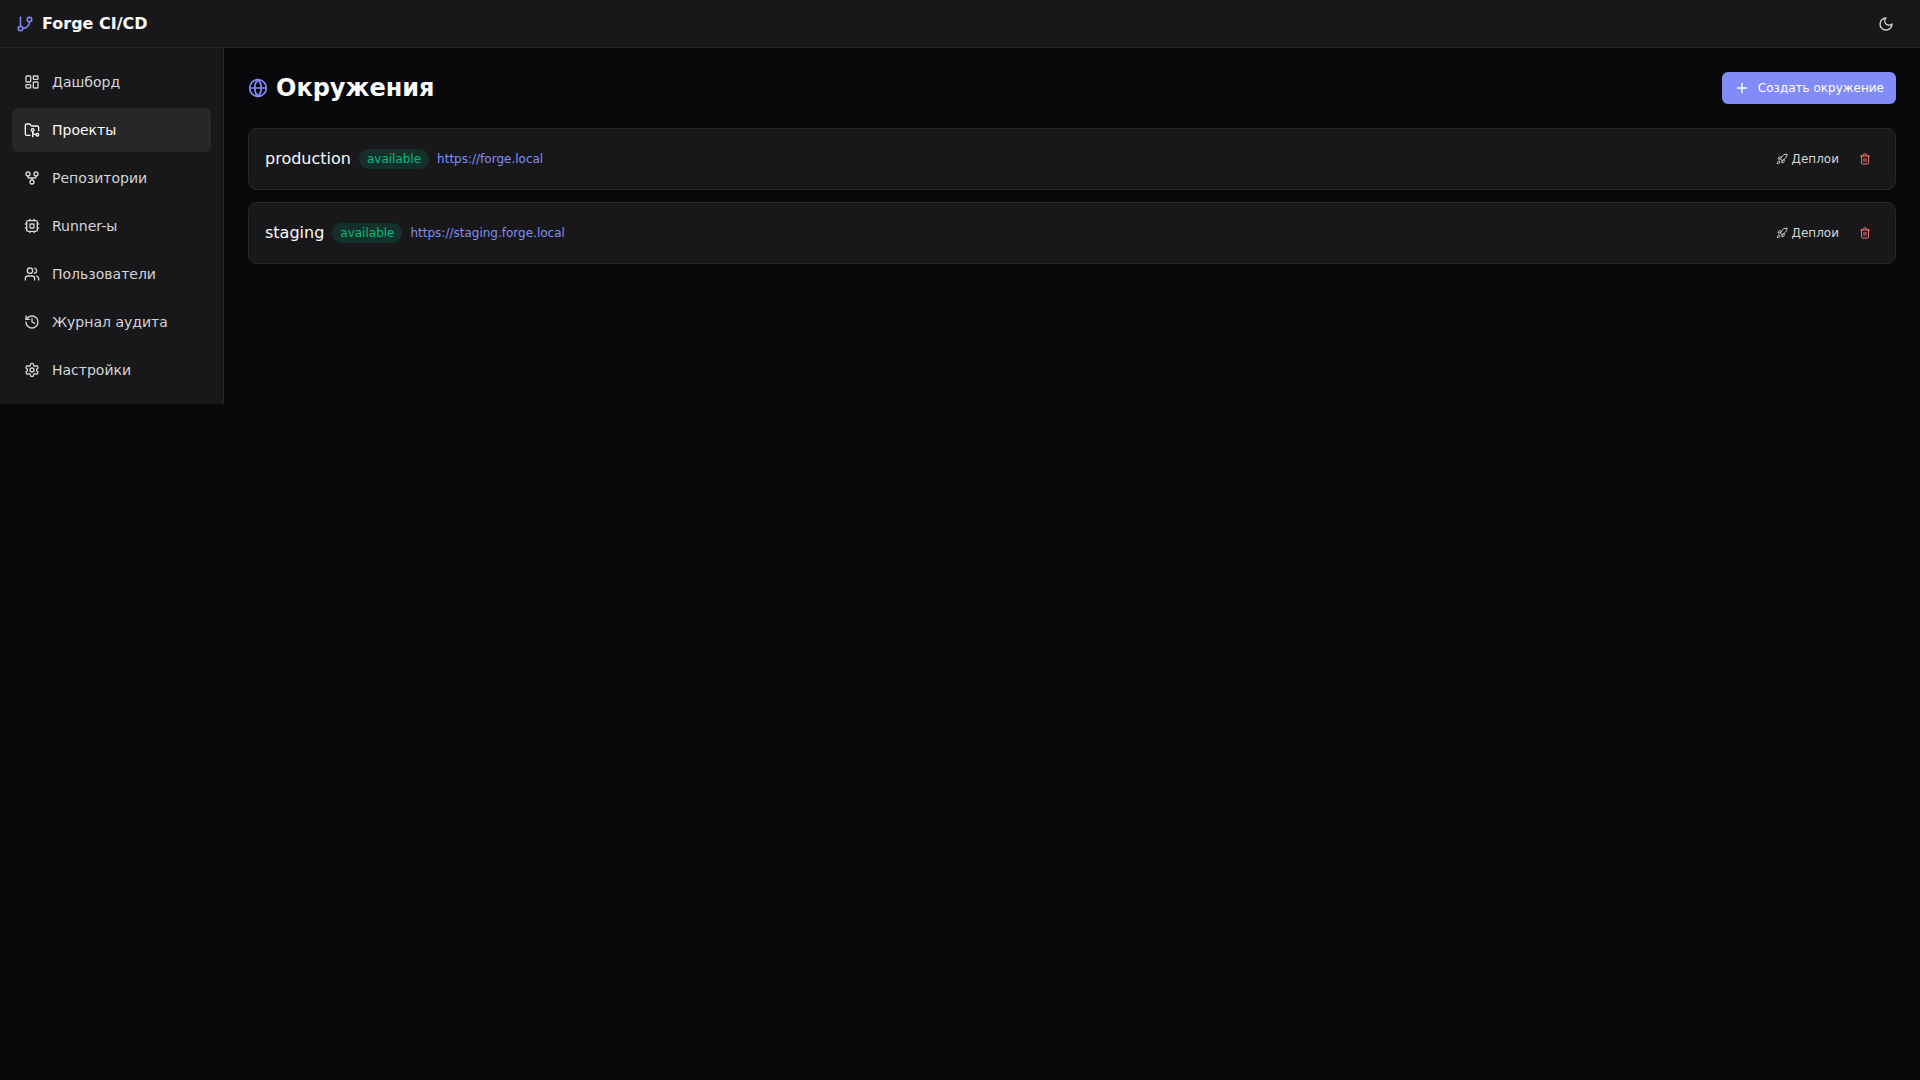
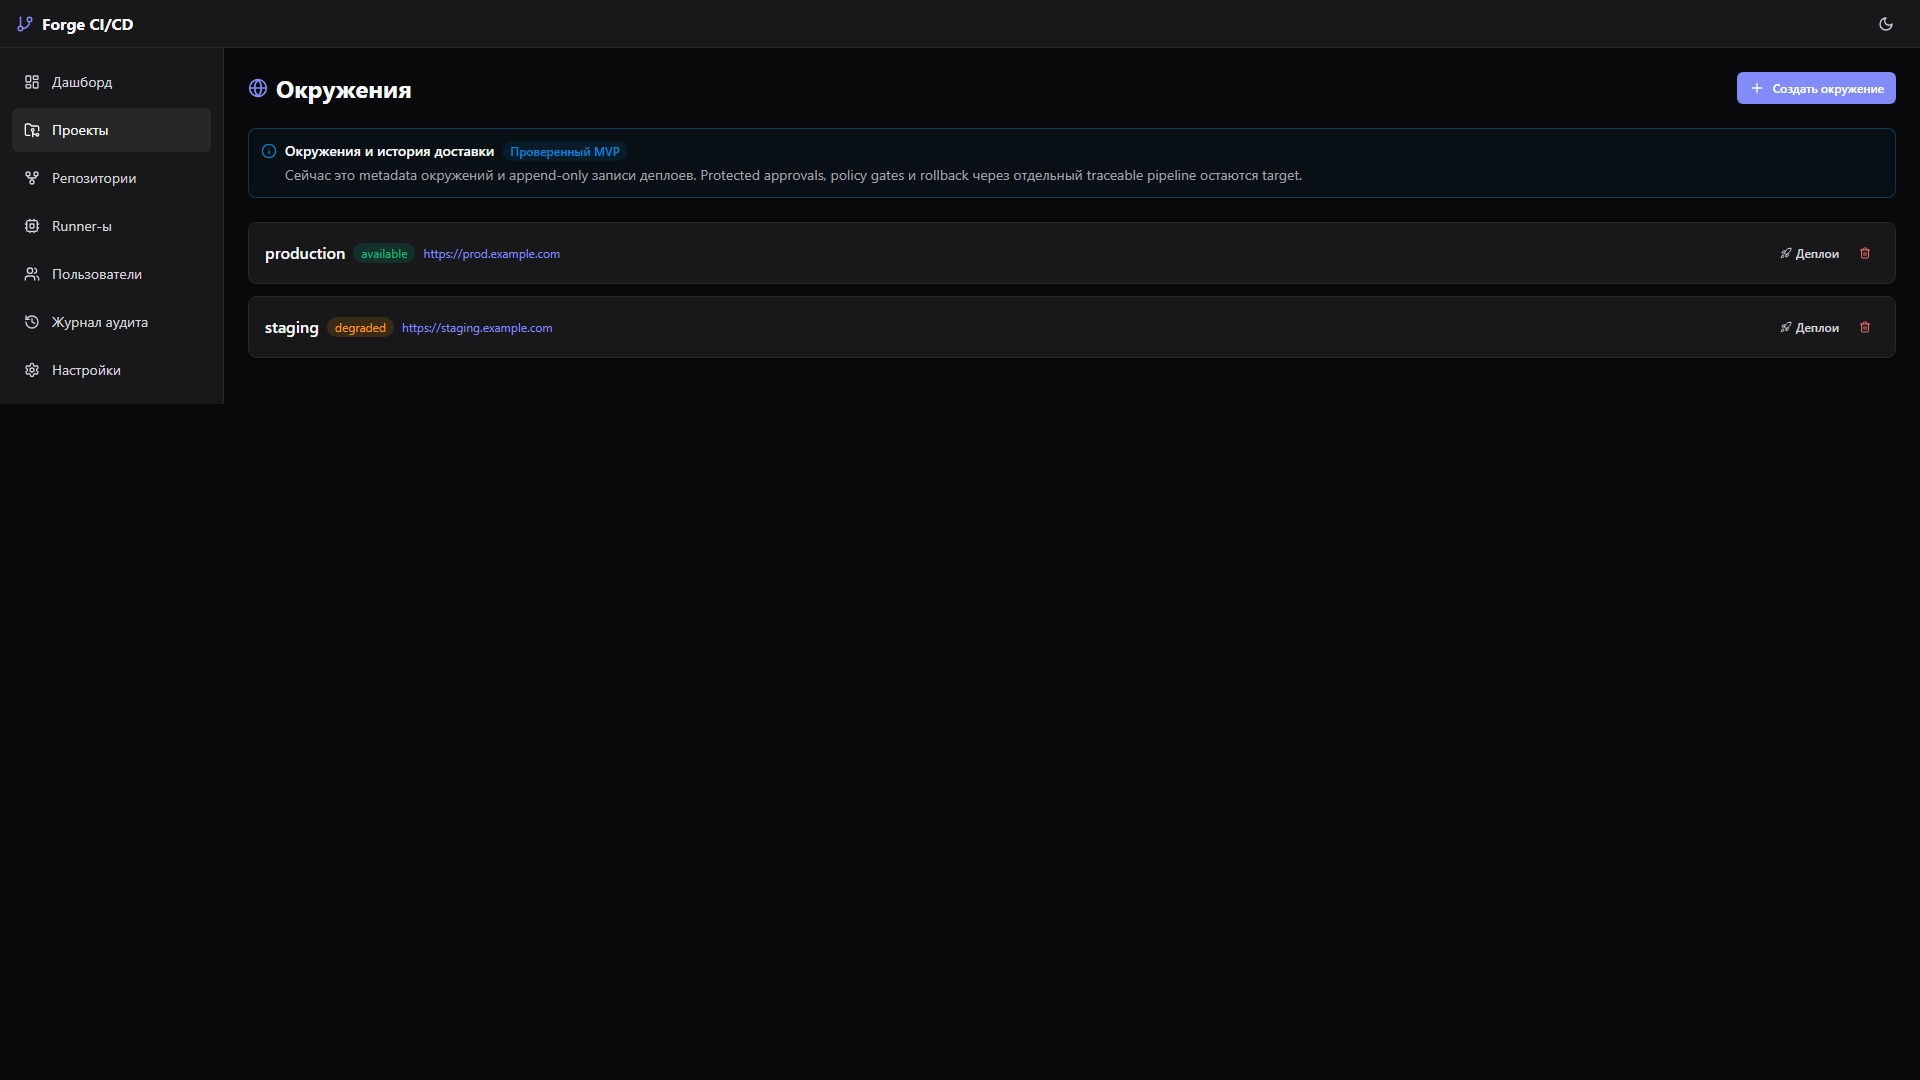
fix(frontend): clarify environment delivery scope

diff --git a/frontend/src/pages/environments/index.tsx b/frontend/src/pages/environments/index.tsx
@@ -6,6 +6,7 @@ import { Card } from '@/shared/ui/card'
 import { Button } from '@/shared/ui/button'
 import { Input } from '@/shared/ui/input'
 import { Label } from '@/shared/ui/label'
+import { CapabilityCallout } from '@/shared/ui/capability-callout'
 import { Table, TableBody, TableCell, TableHead, TableHeader, TableRow } from '@/shared/ui/table'
 import { Globe, Plus, Trash2, Rocket } from 'lucide-react'
 import { toast } from 'sonner'
@@ -35,6 +36,13 @@ export function EnvironmentsPage() {
           {t('environments.create')}
         </Button>
       </div>
+
+      <CapabilityCallout
+        tone="mvp"
+        title={t('environments.capabilityTitle')}
+        label={t('capability.currentMvp')}
+        description={t('environments.capabilityDescription')}
+      />
 
       {showForm && (
         <Card className="p-4">

diff --git a/docs/USER_GUIDE.md b/docs/USER_GUIDE.md
@@ -47,7 +47,7 @@ Forge CI/CD - self-hosted control plane для Git-репозиториев и C
 Проект связывает репозиторий с pipelines, секретами, окружениями, отчётами и другими project-scoped ресурсами.
 
 1. Откройте **Projects** (`/projects`) и выберите **Create project**.
-2. Укажите уникальное имя, `repository_url` и default branch. Для локального Git-хостинга используйте URL вида `http://<host>:22802/git/<repo>.git`.
+2. Укажите уникальное имя, `repository_url` и default branch. Для локального Git-хостинга используйте URL вида `http://<host>:22802/git/<repo>.git` через Dashboard/Git proxy; прямой backend Git endpoint также доступен как `http://<host>:22801/git/<repo>.git`.
 3. Создайте проект и сохраните его UUID: он нужен для CLI и прямых запросов API.
 4. Откройте страницу проекта и перейдите к pipelines или соответствующему ресурсу.
 
@@ -116,7 +116,7 @@ git push -u origin main
 git clone http://any-user:<TOKEN>@<host>/git/my-service.git
 ```
 
-Pipeline читает `.forge-ci.yml`, если он доступен в локальном bare repository; иначе используется шаблон build/test/deploy. Поддерживаются две формы: legacy `stages` с jobs, `image`, одиночным `command`, basic `timeout`, `allow_failure` и `manual`; а также v1 DAG MVP с `version: 1`, top-level `jobs`, `commands`, `needs`, `tags`, `secrets`, `artifacts.paths`, defaults `image/timeout/tags` и `allow_failure`. V1 `tags` попадают в `required_tags`, external runner получает только совместимую работу по tags и current `shell` executor capability; `jobs.*.secrets` попадает в `required_secrets`, и runner получает только эти project secrets; `jobs.*.artifacts.paths` попадает в `artifact_paths`, и embedded/external runner загружает только эти relative file paths после выполнения команд. Protected tags/pools/advanced capabilities, ключи `on`, retry, `artifacts.expire_in`, directory/glob upload и retention policy остаются **Target approved**, см. `docs/contracts/PIPELINE_DSL.md`.
+Pipeline читает `.forge-ci.yml`, если он доступен в локальном bare repository; иначе используется шаблон build/test/deploy. Поддерживаются две формы: legacy `stages` с jobs, `image`, одиночным `command`, basic `timeout`, `allow_failure` и `manual`; а также v1 DAG MVP с `version: 1`, top-level `jobs`, `commands`, `needs`, `tags`, `secrets`, `artifacts.paths`, defaults `image/timeout/tags` и `allow_failure`. V1 `tags` попадают в `required_tags`, external runner получает только совместимую работу по tags и current `shell` executor capability; `jobs.*.secrets` попадает в `required_secrets`, и runner получает только эти project secrets; `jobs.*.artifacts.paths` попадает в `artifact_paths`, и embedded/external runner загружает только эти relative file paths после выполнения команд. Protected tags/pools/advanced capabilities, ключи `on`, retry, `artifacts.expire_in`, directory/glob upload и per-job/per-project retention policy остаются **Target approved**, см. `docs/contracts/PIPELINE_DSL.md`; глобальный TTL новых артефактов через `CICD_ARTIFACT_RETENTION_DAYS` уже работает.
 
 ```yaml
 stages:
@@ -183,7 +183,7 @@ curl -fsS -X POST "http://127.0.0.1:22801/api/v1/jobs/$JOB_ID/artifacts" \
 curl -fsS "http://127.0.0.1:22801/api/v1/jobs/$JOB_ID/artifacts"
 ```
 
-Retention/TTL, S3 и multipart upload - **Target approved**.
+Retention/TTL уже работает для новых локальных uploads через `CICD_ARTIFACT_RETENTION_DAYS`, `expires_at` и purge worker. S3/object storage, legal hold, quotas, directory/glob upload и multipart/resumable sessions - **Target approved**.
 
 ![Артефакты](screenshots/21-artifacts.png)
 
@@ -239,7 +239,7 @@ Embedded runner inject-ит только объявленные `jobs.required_s
 1. Откройте **Environments** (`/projects/{projectId}/environments`).
 2. Создайте окружения, например `staging` и `production`, с URL, если он известен.
 3. После выполнения вашей deploy-job добавьте запись deployment с реальным ref и статусом.
-4. Используйте историю deployments как журнал факта доставки, а не как механизм запуска инфраструктуры.
+4. Используйте историю deployments как журнал факта доставки, а не как механизм запуска инфраструктуры. Кнопка **Записать деплой** создаёт deployment-record.
 
 > Forge не выполняет deployment автоматически только из создания environment/deployment. Развёртывание должно быть частью job или внешней процедуры; protected environments, approvals и policy checks - **Target approved**.
 
@@ -420,7 +420,7 @@ curl -fsS -X POST "http://127.0.0.1:22801/api/v1/projects/$PROJECT_ID/pipelines"
 
 ### Как безопасно передать credential в job?
 
-**Статус процедуры: Current verified for embedded runner.**
+**Статус процедуры: Current verified for embedded and external runner MVP.**
 
 Сохраните secret в разделе **Secrets** проекта и обращайтесь к нему из command как к env-переменной с тем же key. Не помещайте credential в `.forge-ci.yml`, URL репозитория или логи; masking — best-effort и не является полноценной DLP-системой.
 

diff --git a/docs/architecture/frontend-boundaries.md b/docs/architecture/frontend-boundaries.md
@@ -20,7 +20,7 @@ frontend/src/
 - i18n: все пользовательские строки через `t()`; ключи en/ru в паритете, leaf-значения не пустые, runtime switch i18next и динамические ключи для стабильных API contract values покрыты `frontend/src/shared/i18n/i18n-contract.test.ts`.
 - Статусы отображаются текстом + цветом (не только цветом).
 - Страница должна показывать фактический статус capability: `Current verified`, `Configuration only` или `Target approved`; target-функции не оформляются как готовые action controls.
-- Для страниц с частично реализованной capability используется общий `CapabilityCallout` из `frontend/src/shared/ui/capability-callout.tsx`: `Runners` показывает registry/heartbeat как MVP, `Schedules` — scheduler MVP, `Webhooks` — outgoing delivery MVP, `Delivery history` — outbox history/requeue MVP, `Notifications` — `in_app`/`sse` delivery MVP.
+- Для страниц с частично реализованной capability используется общий `CapabilityCallout` из `frontend/src/shared/ui/capability-callout.tsx`: `Runners` показывает registry/heartbeat как MVP, `Environments` — metadata/history без approvals/rollback, `Schedules` — scheduler MVP, `Webhooks` — outgoing delivery MVP, `Delivery history` — outbox history/requeue MVP, `Notifications` — `in_app`/`sse` delivery MVP.
 - Основной desktop layout — рабочий dashboard/sidebar с плотными таблицами и формами; mobile — карточный список без потери create/view/retry/cancel сценариев.
 - Новые страницы добавляются только для самостоятельного CI/CD workflow. Справка, issue tracking, registry и IDE-экраны остаются out-of-scope.
 - Каждый route из текущего baseline должен проходить `frontend/src/app/router.test.tsx`: тест использует production `appRoutes`, memory router и mocked API DTO для первого рендера 20 рабочих страниц + `/login`. Critical real-browser journeys проверяются `frontend/e2e/critical-flows.spec.ts` на собранном Compose stack; representative a11y smoke — `frontend/e2e/accessibility.spec.ts`.

diff --git a/CHANGELOG.md b/CHANGELOG.md
@@ -53,6 +53,7 @@
 
 ### Fixed
 
+- Environments Dashboard теперь явно помечает metadata/deployment-history как MVP без protected approvals/rollback, а `deployment` action переименован в запись deployment-record; user/CLI/Git docs уточняют current artifact TTL и Git proxy/direct ports.
 - Embedded runner secret injection now reads `project_secrets.key` and `encrypted_value`, so saved project secrets are actually decrypted and passed to jobs as runtime env variables.
 - Embedded runner now drains job stdout/stderr while the process is running and serializes log append sequence per attempt, avoiding blocked jobs on large output.
 - Runner and pipeline cancel paths now finish open `execution_attempts`, avoiding stale `queued`/`running` attempts after job failure, timeout or cancel.

diff --git a/README.md b/README.md
@@ -39,7 +39,7 @@
 | Frontend | React 19, Vite 6, Tailwind CSS 4, shadcn/ui |
 | Data | PostgreSQL 17 |
 | Runtime | Docker Compose, embedded Docker/shell runner, Git Smart HTTP |
-| Ports | Dashboard `22802`, API/Git `22801`, PostgreSQL `22543` on `127.0.0.1` |
+| Ports | Dashboard/Git proxy `22802`, API/direct Git `22801`, PostgreSQL `22543` on `127.0.0.1` |
 | License | FerrPOINT Proprietary Source-Available Evaluation License v1.0 |
 
 <a name="features"></a>
@@ -103,7 +103,7 @@ curl -X POST http://127.0.0.1:22801/api/v1/repositories \
   -d '{"name":"my-service"}'
 
 git clone http://127.0.0.1:22802/git/my-service.git
-# add .forge-ci.yml, commit, push
+# add .forge-ci.yml, commit, push through the Dashboard/Git proxy
 git push
 ```
 

diff --git a/docs/GIT_HOSTING.md b/docs/GIT_HOSTING.md
@@ -55,7 +55,7 @@ curl -fsS -X POST http://127.0.0.1:22801/api/v1/repositories \
 git clone http://127.0.0.1:22802/git/platform-core.git
 ```
 
-В production заменить хост и порт на публичный URL reverse proxy.
+В local Compose это идёт через frontend nginx proxy (`:22802`), который проксирует `/git/*` в backend. Прямой backend Git endpoint также доступен на `http://127.0.0.1:22801/git/<repo>.git` для диагностики. В production заменить хост и порт на публичный URL reverse proxy.
 
 ## 4. Smart HTTP
 

diff --git a/docs/CLI.md b/docs/CLI.md
@@ -38,6 +38,8 @@ cicd-cli project create --name my-service \
   --branch main
 ```
 
+`repository-url` может указывать на Dashboard/Git proxy `:22802` или на прямой backend Git endpoint `:22801`; CLI API base по умолчанию остаётся `http://127.0.0.1:22801`.
+
 ### pipeline
 
 ```bash
